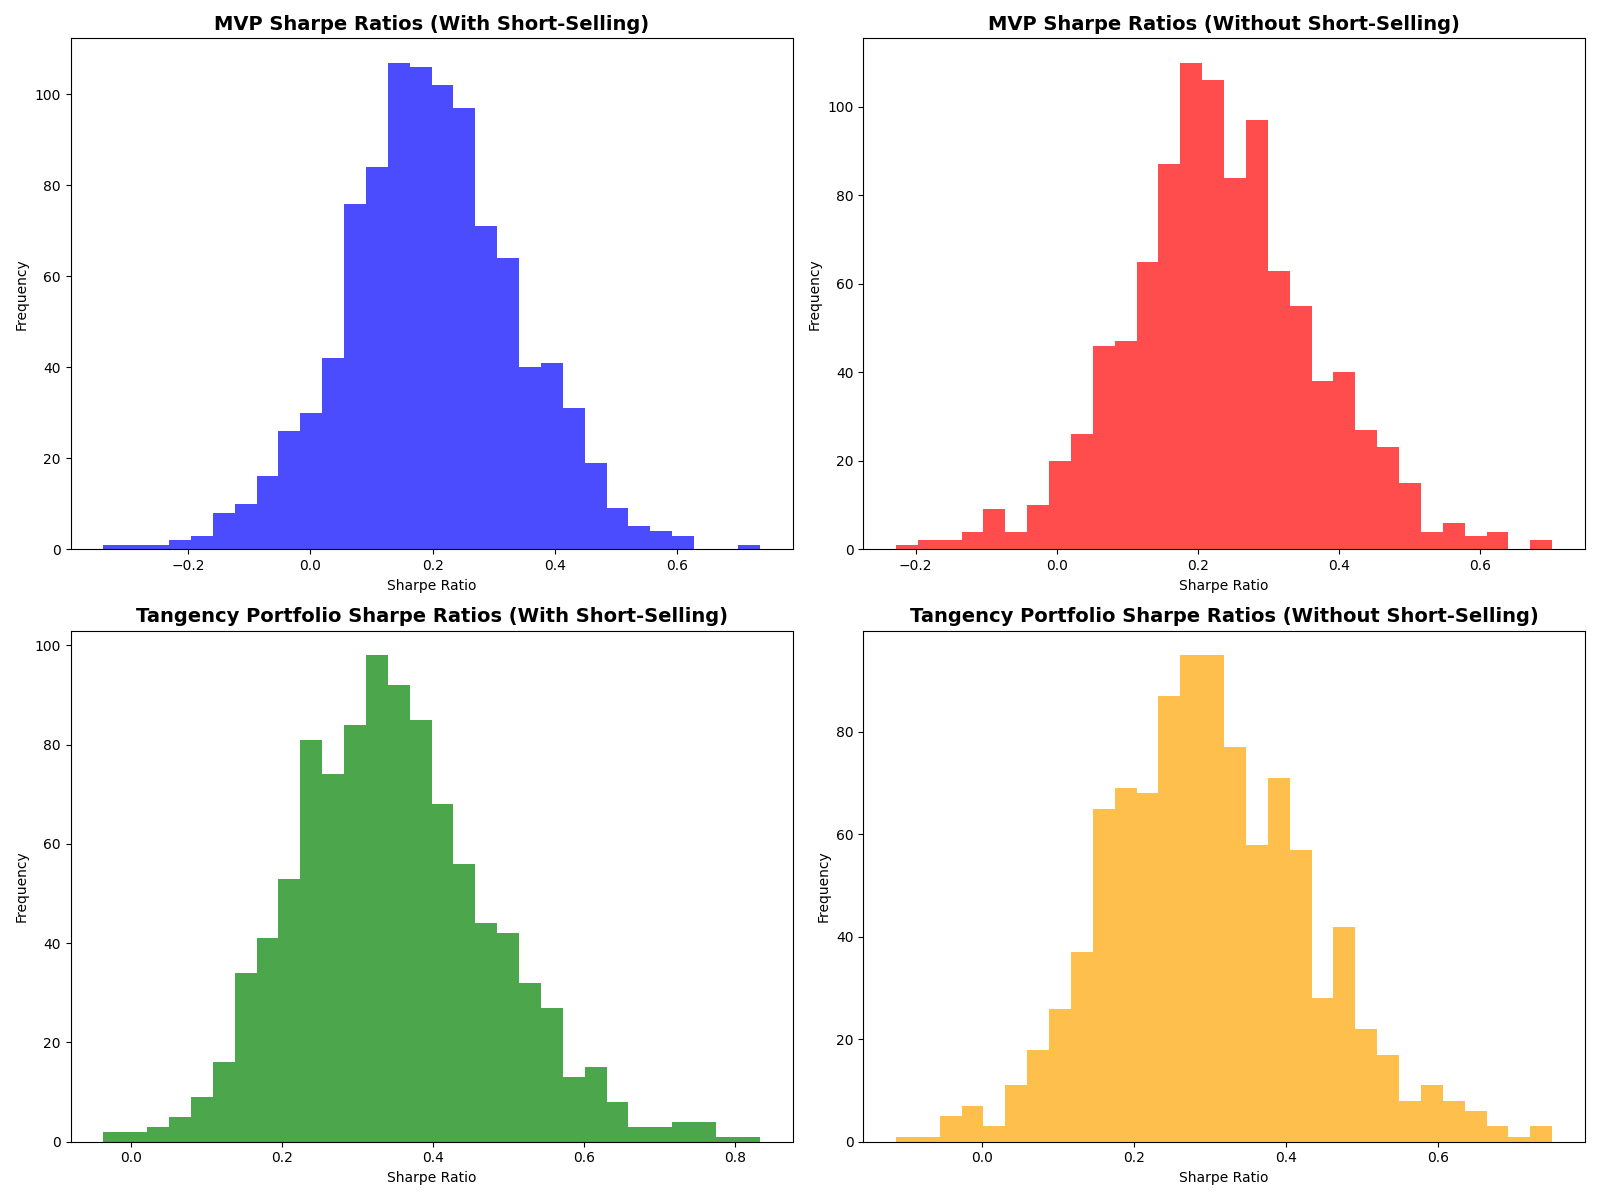
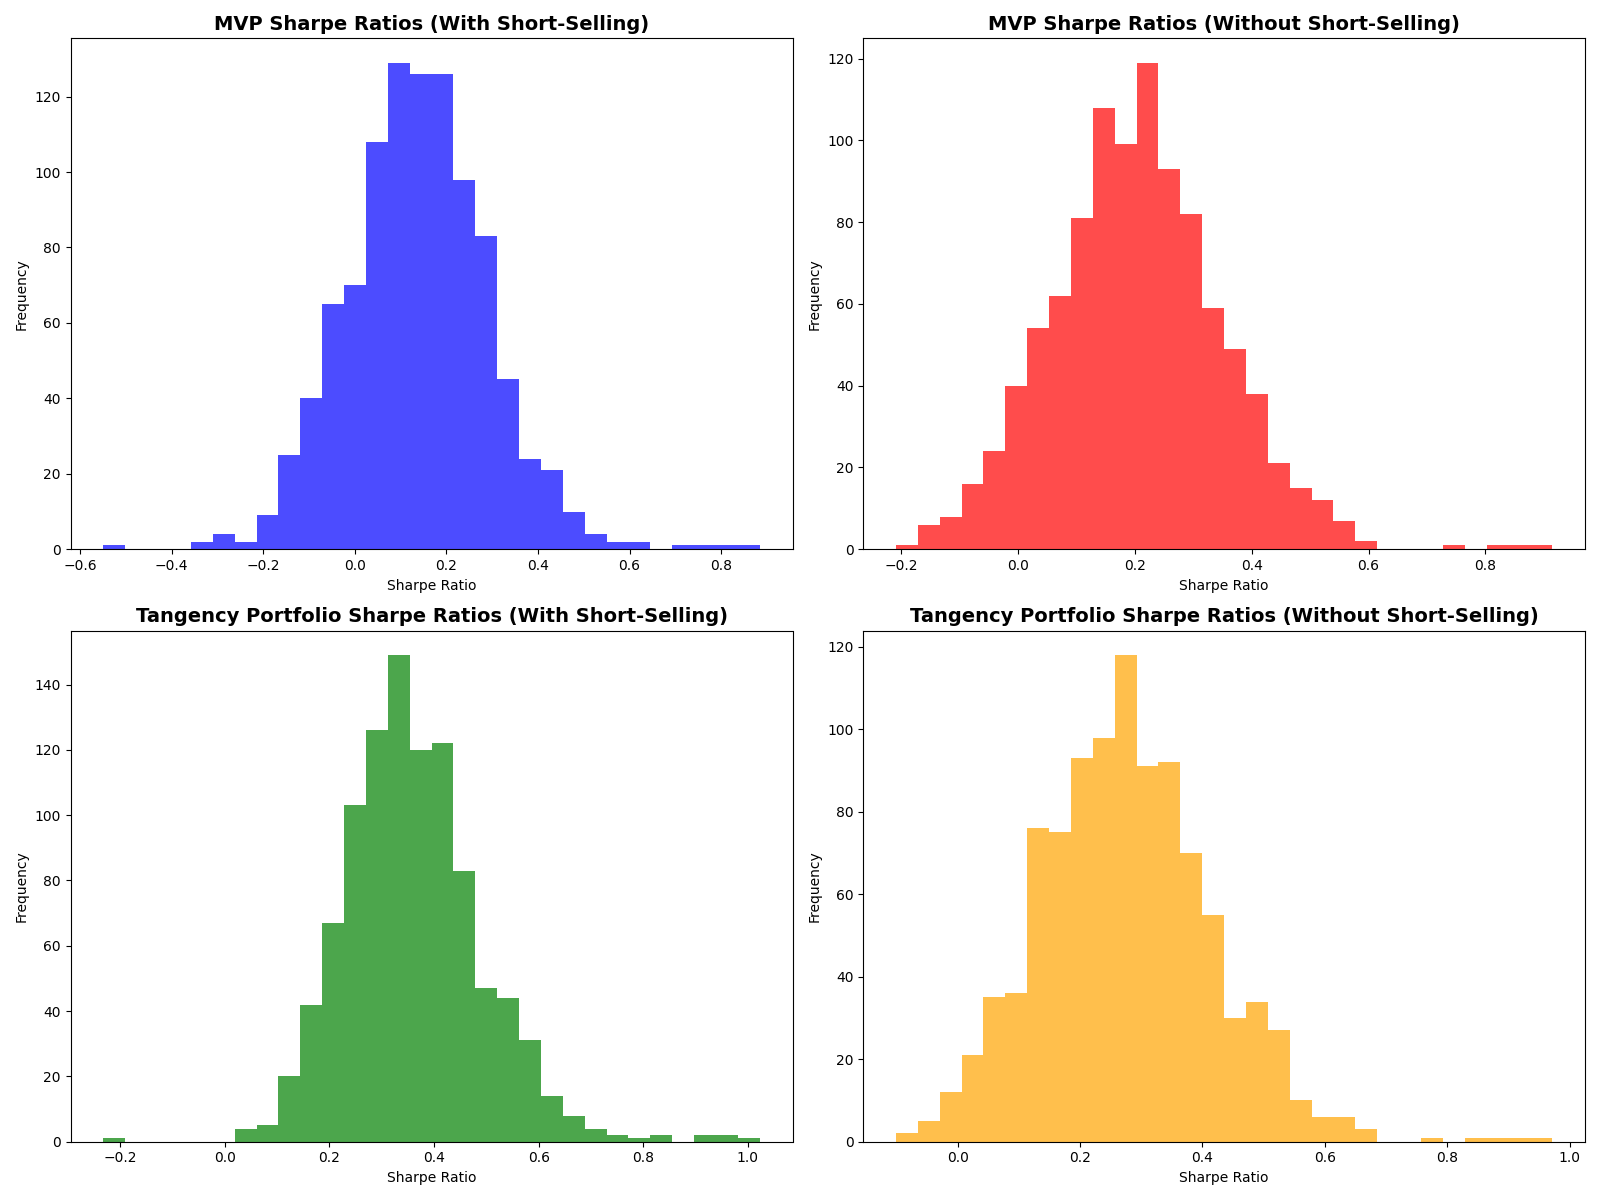
push

diff --git a/Projet.py b/Projet.py
@@ -42,6 +42,8 @@ portfolios_data = portfolios_data[['Rtail', 'Whlsl', 'BusSv', 'Comps', 'Cnstr']]
 
 
 
+
+
 #### ------------------------------------------------ PART A ------------------------------------------------ ####
 # A) 1. Graph the "mean-variance locus" (without the risk-free asset and w/o short-selling constraint) of the 5 industries. Specify each industry in the chart. 
 
@@ -60,119 +62,129 @@ ones = np.ones(n_assets)
 
 def calculate_mvp_weights(cov_matrix, allow_short_selling=False):
     """
-    Calculate Minimum Variance Portfolio (MVP) weights
-    
+    Calculate Minimum Variance Portfolio (MVP) weights using an analytical approach.
+
     Parameters:
     -----------
     cov_matrix : np.array
         Covariance matrix of asset returns
     allow_short_selling : bool, optional
         Whether to allow negative weights (default: False)
-    
+
     Returns:
     --------
     np.array: MVP weights
     """
-    if allow_short_selling == True:
-        # MVP with short-selling (quadratic programming)
-        def portfolio_variance(weights):
-            return weights.T @ cov_matrix @ weights
-        
-        # Constraints
-        constraints = [
-            {'type': 'eq', 'fun': lambda x: np.sum(x) - 1}  # weights sum to 1
-        ]
-        
-        # Bounds (with short-selling)
-        bounds = [(-np.inf, np.inf) for _ in range(len(cov_matrix))]
-        
-        # Initial guess: equal weights
-        initial_weights = np.ones(len(cov_matrix)) / len(cov_matrix)
-        
-        # Optimization
-        result = minimize(
-            portfolio_variance, 
-            initial_weights, 
-            method='SLSQP',
-            bounds=bounds,
-            constraints=constraints
-        )
-        
-        mvp_weights = result.x
+    num_assets = cov_matrix.shape[0]
+    ones = np.ones(num_assets)
+
+    # Compute the inverse of the covariance matrix
+    inv_cov_matrix = np.linalg.inv(cov_matrix)
+
+    # Calculate MVP parameters
+    A = ones.T @ inv_cov_matrix @ ones  # Scalar value
+    B = ones.T @ inv_cov_matrix @ expected_returns
+    mvp_weights = (inv_cov_matrix @ ones) / A  # MVP weights formula
+
+    if allow_short_selling:
+        return mvp_weights
     else:
-        # MVP with no short-selling (quadratic programming)
-        def portfolio_variance(weights):
-            return weights.T @ cov_matrix @ weights
-        
-        # Constraints
-        constraints = [
-            {'type': 'eq', 'fun': lambda x: np.sum(x) - 1}  # weights sum to 1
-        ]
-        
-        # Bounds (no short-selling)
-        bounds = [(0, np.inf) for _ in range(len(cov_matrix))]
-        
-        # Initial guess: equal weights
-        initial_weights = np.ones(len(cov_matrix)) / len(cov_matrix)
-        
+        # If short-selling is NOT allowed, use numerical optimization to enforce constraints
+        from scipy.optimize import minimize
+
+        # Constraints: sum of weights = 1
+        constraints = [{'type': 'eq', 'fun': lambda x: np.sum(x) - 1}]
+        bounds = [(0, 1) for _ in range(num_assets)]  # No short selling
+
+        # Initial guess: Equal weights
+        initial_weights = np.ones(num_assets) / num_assets
+
         # Optimization
         result = minimize(
-            portfolio_variance, 
-            initial_weights, 
+            lambda w: w.T @ cov_matrix @ w,  # Minimize portfolio variance
+            initial_weights,
             method='SLSQP',
             bounds=bounds,
             constraints=constraints
         )
-        
-        mvp_weights = result.x
+
+        if result.success:
+            return result.x
+        else:
+            raise ValueError("Optimization failed: " + result.message)
+
+def plot_efficient_frontier(returns, expected_returns, cov_matrix, mvp_weights):
+    """
+    Plot the efficient frontier with industries and MVP point
     
-    return mvp_weights
+    Parameters:
+    -----------
+    returns : pd.DataFrame
+        Returns data
+    expected_returns : pd.Series
+        Expected returns for each asset
+    cov_matrix : pd.DataFrame
+        Covariance matrix
+    mvp_weights : np.array
+        MVP portfolio weights
+    """
+    # Calculate MVP return and risk
+    mvp_return = np.dot(mvp_weights, expected_returns) 
+    mvp_risk = np.sqrt(mvp_weights.T @ cov_matrix @ mvp_weights)
+        
+    # Convert to percentages for plotting
+    mvp_return_plot = mvp_return * 100
+    mvp_risk_plot = mvp_risk * 100
+    
+    plt.figure(figsize=(10, 6))
+    plt.grid(True)
+    
+    # Plot individual industries
+    for industry in expected_returns.index:
+        plt.scatter(returns[industry].std()* 100, 
+                   expected_returns[industry] * 100,
+                   marker='X', s=200, label=industry)
+    
+    # Plot MVP point
+    plt.scatter(mvp_risk_plot, mvp_return_plot, 
+               color="red", marker="*", s=200, 
+               label="Minimum Variance Portfolio")
+    
+    # Add MVP coordinates
+    plt.annotate(f"(r = {mvp_return_plot:.2f}%, σ = {mvp_risk_plot:.2f}%)",
+                (mvp_risk_plot, mvp_return_plot),
+                xytext=(10, 10), textcoords='offset points',
+                fontsize=8)
+    
+    # Format axes
+    plt.gca().xaxis.set_major_formatter(mtick.PercentFormatter())
+    plt.gca().yaxis.set_major_formatter(mtick.PercentFormatter())
+    
+    plt.xlim(0, 10)
+    plt.ylim(-3, 3)
+    
+    # Labels and title
+    plt.xlabel("Standard Deviation (%)", fontsize=12)
+    plt.ylabel("Expected Return (%)", fontsize=12)
+    plt.title("Efficient Frontier with MVP (With Short Selling)", 
+             fontsize=15, fontweight='bold')
+    plt.legend()
+    
+    plt.savefig("efficient_frontierA1.png", bbox_inches='tight', dpi=300)
+    plt.show()
+
+# Convert percentage returns to decimal
+returns = portfolios_data / 100
+returns = returns.dropna()
+
+expected_returns = returns.mean()
+cov_matrix = returns.cov()
 
 # Calculate MVP weights
 mvp_weights = calculate_mvp_weights(cov_matrix, allow_short_selling=True)
 
-# Calculate MVP return and risk
-mvp_return = np.dot(mvp_weights, expected_returns)
-mvp_risk = np.sqrt(mvp_weights.T @ cov_matrix @ mvp_weights)
-
-sharpe_ratios = mvp_return / mvp_risk  # No risk-free asset
-
-# Convert values for graphing purposes
-mvp_return_plot = mvp_return * 100
-mvp_risk_plot = mvp_risk  * 100
-expected_returns_plot = expected_returns * 100
-mvp_return_plot = mvp_return * 100
-mvp_risk_plot = mvp_risk * 100
-
-# Plot Efficient Frontier
-plt.figure(figsize=(10, 6))
-plt.grid(True)
-
-# Mark each industry
-for industry in expected_returns.index:
-    plt.scatter(np.std(returns[industry]) * 100, expected_returns[industry] * 100, 
-                marker='X', s=200, label=industry)
-
-# Mark MVP
-plt.scatter(mvp_risk_plot, mvp_return_plot, color="red", marker="*", s=200, label="Minimum Variance Portfolio")
-
-# Add x and y value to the MVP point (coordinates)
-plt.text(mvp_risk_plot, mvp_return_plot, f"(r = {mvp_return_plot:.2f}%), σ = {mvp_risk_plot:.2f}%)", fontsize=8, ha='right')
-
-# Format axes as percentages
-plt.gca().xaxis.set_major_formatter(mtick.PercentFormatter())
-plt.gca().yaxis.set_major_formatter(mtick.PercentFormatter())
-
-plt.xlim(0, 10)
-plt.ylim(-3, 3)
-
-# Labels and title
-plt.xlabel("Standard Deviation (%)", fontsize=12)
-plt.ylabel("Expected Return (%)", fontsize=12)
-plt.title("Efficient Frontier with MVP (With Short Selling)", fontsize=15, fontweight='bold')
-plt.legend()
-plt.savefig("efficient_frontierA1.png")
-plt.show()
+# Plot the efficient frontier
+plot_efficient_frontier(returns, expected_returns, cov_matrix, mvp_weights)
 
 
 
@@ -181,13 +193,7 @@ plt.show()
 
 # A) 2. Calculate tangency portfolio and CML (w/ risk-free rate and w/ short-selling)
 
-# Retrieve risk-free rate from Kenneth French website
-def retrieve_risk_free_rate():
-    rf_data = web.famafrench.FamaFrenchReader('F-F_Research_Data_Factors', start='2019-12', end='2024-12')
-    rf = rf_data.read()[0]['RF'] / 100  # Convert to decimal
-    return rf.mean()
-
-rf_rate = retrieve_risk_free_rate()
+rf_rate = 0.4/100
 
 inv_cov_matrix = np.linalg.inv(cov_matrix)
 
@@ -218,10 +224,10 @@ def calculate_tangency_portfolio(expected_returns, cov_matrix, rf_rate, allow_sh
     
     if allow_short_selling:
         # No constraints on weights if short selling is allowed
-        bounds = tuple((-1, 1) for _ in range(n_assets))
+        bounds = tuple((-np.inf, np.inf) for _ in range(n_assets))
     else:
         # Weights between 0 and infinity if no short selling
-        bounds = tuple((0, 1) for _ in range(n_assets))
+        bounds = tuple((0, np.inf) for _ in range(n_assets))
     
     # Initial guess: equal weights
     initial_weights = np.ones(n_assets) / n_assets
@@ -288,6 +294,7 @@ plt.legend()
 plt.grid(True)
 plt.savefig("efficient_frontier_cmlA2.png")
 plt.show()
+
 
 
 
@@ -534,9 +541,6 @@ tangency_return = tangency_portfolio['expected_return']
 tangency_risk = tangency_portfolio['risk']
 tangency_sharpe_ratio = tangency_portfolio['sharpe_ratio']
 
-# Mathematical Verification
-verification_results = verify_sharpe_maximization(expected_returns, cov_matrix, rf_rate, tangency_weights)
-
 # Detailed Output
 print("\n------ A.6 Tangency Portfolio Characteristics (W/o Short-Selling) ------")
 for asset, weight in zip(expected_returns.index, tangency_weights):
@@ -567,6 +571,8 @@ print(f"\nSum of Tangency Portfolio Weights: {np.sum(tangency_weights):.4f}")
 
 #### ------------------------------------------------ PART B ------------------------------------------------ ####
 # B) 1. Resample with replacement the porfolio data and create a bootstrap sample of 60 months. Repeat the bootstrap 1000 times. And repeat A) 1-6 for each bootstrap sample.
+# Set seed to 243
+np.random.seed(243)
 
 def bootstrap_sampling(data, n_iterations=1000, sample_size=60):
    bootstrap_samples = []
@@ -1057,6 +1063,7 @@ print(f"Sharpe Ratio: {best_sharpe_noshort:.4f}\n")
 
 
 
+
 # B) 4. Implement MAXSER approach to portfolio allocation for the 48 industries
 # Apply shrinkage estimation to the covariance matrix
 # Retrieve 48 industry portfolios from Kenneth French website
@@ -1066,12 +1073,6 @@ def retrieve_full_industry_data():
     portfolios_data = portfolios_data.replace([-99.99, -999], pd.NA).dropna()
     industry_reader.close()
     return portfolios_data / 100  # Convert percentage to decimal
-
-# Retrieve risk-free rate
-def retrieve_risk_free_rate():
-    rf_data = web.famafrench.FamaFrenchReader('F-F_Research_Data_Factors', start='2014-12', end='2024-12')
-    rf = rf_data.read()[0]['RF'] / 100  # Convert to decimal
-    return rf.mean()
 
 def estimate_cov_matrix(returns):
     lw = LedoitWolf()
@@ -1121,7 +1122,6 @@ def monte_carlo_maxser(returns, rf_rate, n_simulations=10000, allow_short_sellin
 
 # Main execution
 portfolios_data = retrieve_full_industry_data()
-rf_rate = retrieve_risk_free_rate()
 
 # Find the best portfolios using Monte Carlo with MAXSER
 best_industries_short, best_weights_short, best_sharpe_short = monte_carlo_maxser(portfolios_data, rf_rate, 10000, True)

diff --git a/comparison.py b/comparison.py
@@ -1,0 +1,79 @@
+import pandas as pd
+import numpy as np
+import matplotlib.pyplot as plt
+from scipy.optimize import minimize
+import pandas_datareader as web
+
+def retrieve_industry_data():
+    """
+    Retrieve 48 industry portfolios from Kenneth French website
+    """
+    # Instantiate the reader for 48 Industry Portfolios to capture the monthly data
+    industry_reader = web.famafrench.FamaFrenchReader('48_Industry_Portfolios', start='2019-12', end='2024-12')
+    
+    # Read the data
+    portfolios_data = industry_reader.read()[0]  # Assuming we need the first table [0]
+    
+    # Clean missing data
+    portfolios_data = portfolios_data.replace([-99.99, -999], np.nan)
+    
+    return portfolios_data
+
+# Retrieve the data
+portfolios_data = retrieve_industry_data()
+
+# Drop all industries except for Rtail, Whlsl, BusSv, Comps, and Cnstr
+selected_industries = ['Rtail', 'Whlsl', 'BusSv', 'Comps', 'Cnstr']
+portfolios_data = portfolios_data[selected_industries].dropna()
+
+# Compute mean returns and covariance matrix
+mean_returns = portfolios_data.mean()
+cov_matrix = portfolios_data.cov()
+
+# Compute MVP parameters
+inv_cov = np.linalg.inv(cov_matrix)
+ones = np.ones(len(mean_returns))
+A = ones.T @ inv_cov @ ones
+B = ones.T @ inv_cov @ mean_returns
+C = mean_returns.T @ inv_cov @ mean_returns
+Delta = A * C - B**2
+
+# Generate a range of expected returns (mu) to capture the full locus
+mu_vals = np.linspace(min(mean_returns) - 2, max(mean_returns) + 4, 300)
+
+# Compute standard deviation for each mu using the minimum-variance equation
+sigma_vals = np.sqrt(np.maximum((A * mu_vals**2 - 2 * B * mu_vals + C) / Delta, 0))
+
+# Plot the Full Mean-Variance Locus (Full Parabola)
+plt.figure(figsize=(10, 6))
+plt.plot(sigma_vals, mu_vals, label="Mean-Variance Locus", color="blue")
+
+# Define different colors for each industry
+industry_colors = ['blue', 'orange', 'purple', 'yellow', 'pink']  
+
+# Plot each industry's mean and variance 
+for i, industry in enumerate(selected_industries):
+    std_dev = np.sqrt(cov_matrix.loc[industry, industry])  # Standard deviation (risk)
+    mean_return = mean_returns[industry]  # Mean return
+    color = industry_colors[i % len(industry_colors)]  
+    plt.scatter(std_dev, mean_return, marker='o', s=50, label=industry, color=color)
+
+# Plot the Global Minimum Variance Portfolio (GMVP)
+gmvp_std = np.sqrt(1 / A)
+gmvp_return = B / A
+plt.scatter(gmvp_std, gmvp_return, color='red', marker='o', s=120, label="Global Minimum Variance Portfolio")
+plt.text(gmvp_std - 0.3, gmvp_return, "GMVP", fontsize=12, verticalalignment='bottom', horizontalalignment='right', color='red')
+
+print(f"GMVP Return: {gmvp_return}, GMVP Std Dev: {gmvp_std}")
+
+# Add reference lines at y = 0 and x = 0
+plt.axhline(y=0, color='orange', linestyle='-', linewidth=1) 
+plt.axvline(x=0, color='orange', linestyle='-', linewidth=1)  
+
+# Labels and title
+plt.xlabel("Standard Deviation (Risk)")
+plt.ylabel("Expected Return")
+plt.title("Full Mean-Variance Locus without the risk-free asset")
+plt.legend()
+plt.grid()
+plt.show()
